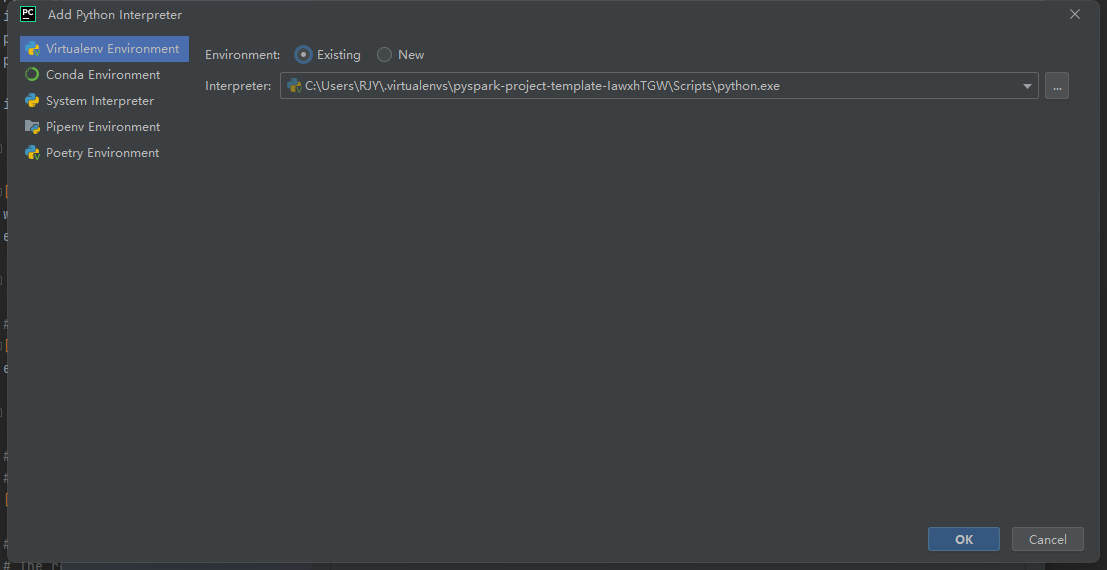
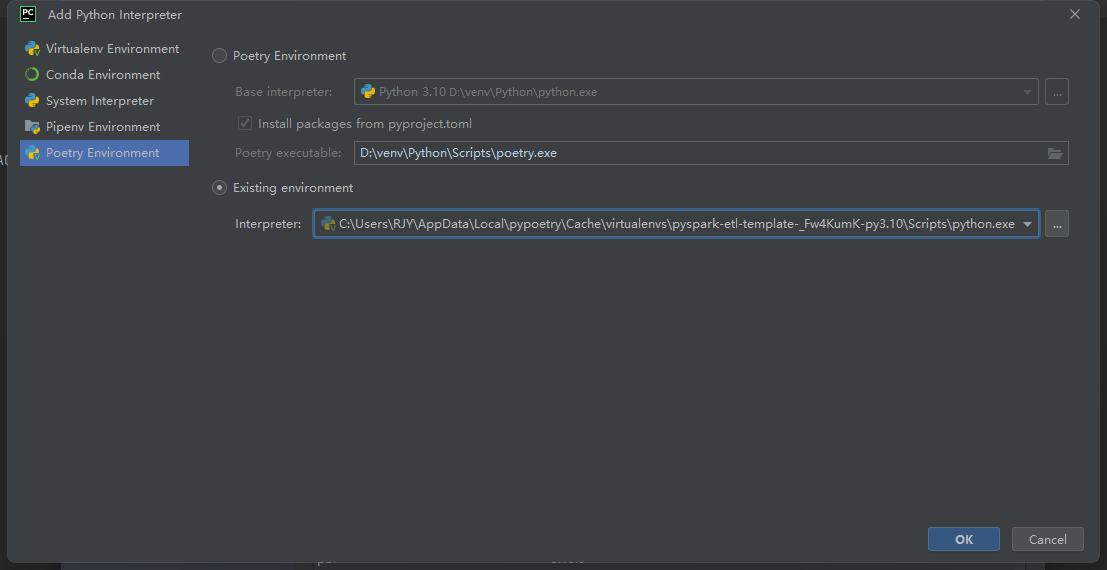
fix BigData Doc virtualenv: poetry

diff --git a/docs/bigdata/basis/quick_start.md b/docs/bigdata/basis/quick_start.md
@@ -12,16 +12,17 @@
 使用[Git](https://git-scm.com/)克隆项目模板
 
 ```bash
-git clone https://github.com/JingyuanR/pyspark-project-template.git
+git clone https://github.com/JingyuanR/pyspark-etl-template.git
 ```
 
 ### 创建虚拟环境
 
-切换到`pyspark-project-template` 文件路径下，项目使用 [pipenv](/pythonic-project-guidelines/quick_start/#13)
+切换到`pyspark-etl-template`
+文件路径下，项目使用 [poetry](/pythonic-project-guidelines/introduction/virtualenv/#25-poetry)
 管理虚拟环境，运行命令自动创建虚拟环境，同时安装开发环境依赖
 
 ```bash
-pipenv install -d
+poetry install
 ```
 
 ### IDE项目初始化
@@ -29,6 +30,8 @@ pipenv install -d
 #### 加载虚拟环境
 
 使用Pycharm打开项目 `File` | `Settings` | `Project` | `Python Interpreter`
+
+选择 `Poetry Environment`
 
 添加刚才创建的虚拟环境(选择`Existing`)
 
@@ -43,6 +46,33 @@ pipenv install -d
 将`src`和`tests`目录设置为`Sources`源代码路径
 
 [![add_project_structure](../../assets/images/pycharm/add_project_structure.png)](../../assets/images/pycharm/add_project_structure.png)
+
+#### ETL任务开发
+
+ETL任务放在`Tasks`目录下，实现`AbstractTransform`和`AbstractTask`
+
+- `AbstractTask`: Task任务抽象类，`executor`执行器实例化`插件Task`，执行`AbstractTask`抽象父类的`run`方法
+    - `run`: 执行Task任务流程
+    - `_input`: 数据源抽取(抽象方法)
+    - `_transform`: 数据转换(抽象方法)，执行转换流程，调用`AbstractTransform`子类
+    - `_output`: 数据加载(抽象方法)
+- `AbstractTransform`: Transform抽象类，提供`AbstractTask`中`_transform`使用，同一个Task可以实现多个`_transform`
+    - `_transform`: 数据转换(抽象方法)，指定转换流程，处理输入数据(DataFrame)
+
+ETL任务完成后需要注册插件：
+
+若使用[poetry](/pythonic-project-guidelines/introduction/virtualenv/#25-poetry)，`pyproject.toml`文件增加：
+
+```toml
+[tool.poetry.plugins."poetry.plugin"]
+demo = "poetry_demo_plugin.plugin:MyPlugin"
+```
+
+开发环境需要初始化插件：
+
+```
+poetry plugin
+```
 
 ## 开发实践
 
@@ -167,11 +197,11 @@ def _name_replace_udf(car_name):
 
 将上述实现的类注册到命名空间中。
 
-编辑`setup.cfg`文件，在`[options.entry_points]`中增加如下内容：
+编辑`pyproject.toml`文件，增加[poetry插件](https://python-poetry.org/docs/plugins/)如下内容：
 
-```angular2html
-etl.project.tasks =
-car_etl_example = etl_project.tasks:CarDataTask
+```toml
+[tool.poetry.plugins."etl_tasks"]
+car_etl_example = "pyspark_etl_template.tasks.car_etl_example.car_transform:CarTransform"
 ```
 
 这么做的目的是将 `CarDataTask` 注册到 `entry_points` 中， 然后在程序中使用 `import.metadata`
@@ -179,15 +209,18 @@ car_etl_example = etl_project.tasks:CarDataTask
 
 将项目以可编辑模式安装到当前环境：
 
-```angular2html
-pip install -e .
+```shell
+poetry install
 ```
 
-可以在 `src/example_etl.egg-info/entry_points.txt` 文件中查看打包后的注册信息：
+可以在 `Python Console` 下查看注册插件信息：
 
-```angular2html
-[etl.project.tasks]
-car_etl_example = etl_project.tasks:CarDataTask
+```bash
+>>> from importlib.metadata import entry_points
+
+>>> entry_points(group='etl_tasks')
+
+[EntryPoint(name='car_etl_example', value='pyspark_etl_template.tasks.car_etl_example.car_transform:CarTransform', group='etl_tasks')]
 ```
 
 ### 运行Task

diff --git a/docs/bigdata/basis/init.md b/docs/bigdata/basis/init.md
@@ -2,7 +2,8 @@
 
 ## 开发环境
 
-本页总结了设置和开始开发PySpark ETL项目所需的基本步骤，前提已经安装完成[Python开发前准备](/pythonic-project-guidelines/introduction/install)。
+本页总结了设置和开始开发PySpark
+ETL项目所需的基本步骤，前提已经完成[Python开发前准备](/pythonic-project-guidelines/introduction/install)。
 
 使用[Pypi](https://pypi.org/project/pyspark/)
 安装[PySpark](https://spark.apache.org/docs/latest/api/python/getting_started/index.html)如下：
@@ -11,11 +12,6 @@
 pip install pyspark
 ```
 
-使用[Pipenv](/pythonic-project-guidelines/quick_start/#13)安装PySpark如下：
-
-```shell
-pipenv install pyspark
-```
 
 ## Windows系统环境
 
@@ -32,7 +28,8 @@ pipenv install pyspark
 
 建议使用解压工具对`.tar.gz`文件格式进行解压，如[Bandizip](https://cn.bandisoft.com/bandizip/dl/)
 
-在Windows PowerShell 运行`tar -zxvf`中可能发生[Maximum Path Length Limitation](https://docs.microsoft.com/en-us/windows/win32/fileio/maximum-file-path-limitation?tabs=registry)
+在Windows PowerShell 运行`tar -zxvf`
+中可能发生[Maximum Path Length Limitation](https://docs.microsoft.com/en-us/windows/win32/fileio/maximum-file-path-limitation?tabs=registry)
 
 ### 安装JDK
 
@@ -53,7 +50,6 @@ pipenv install pyspark
 配置`%JAVA_HOME%/bin`，`%HADOOP_HOME%/bin`
 
 [![windows_env_path](../../assets/images/pycharm/windows_env_path.png)](../../assets/images/pycharm/windows_env_path.png)
-
 
 ## MacOs系统环境
 
@@ -86,7 +82,8 @@ Caused by: java.io.FileNotFoundException: HADOOP_HOME and hadoop.home.dir are un
 
 __解决方案:__
 
-Windows在安装Hadoop环境时可能会遇到缺少文件`winutils.exe`和`hadoop.dll`，可以通过[github下载Hadoop文件](https://github.com/cdarlint/winutils)
+Windows在安装Hadoop环境时可能会遇到缺少文件`winutils.exe`和`hadoop.dll`
+，可以通过[github下载Hadoop文件](https://github.com/cdarlint/winutils)
 ，将安装时缺少的文件，放入%Hadoop%/bin目录下，重启IDE。
 
 > （如果还不成功的话可以尝试）将hadoop.dll复制到C:\Window\System32下
@@ -140,3 +137,17 @@ __解决方案:__
 PYSPARK_DRIVER_PYTHON=jupyter;
 PYSPARK_PYTHON=python
 ```
+
+### 问题3 （Poetry下载资源"gbk" 格式异常）：
+
+```
+The following packages are already present in the pyproject.toml and will be skipped: 
+
+   'gbk' codec can't encode character '\u2022' in position 2: illegal multibyte sequence
+   
+```
+
+__解决方案:__
+
+Windows系统语言设置为`utf-8`格式
+
